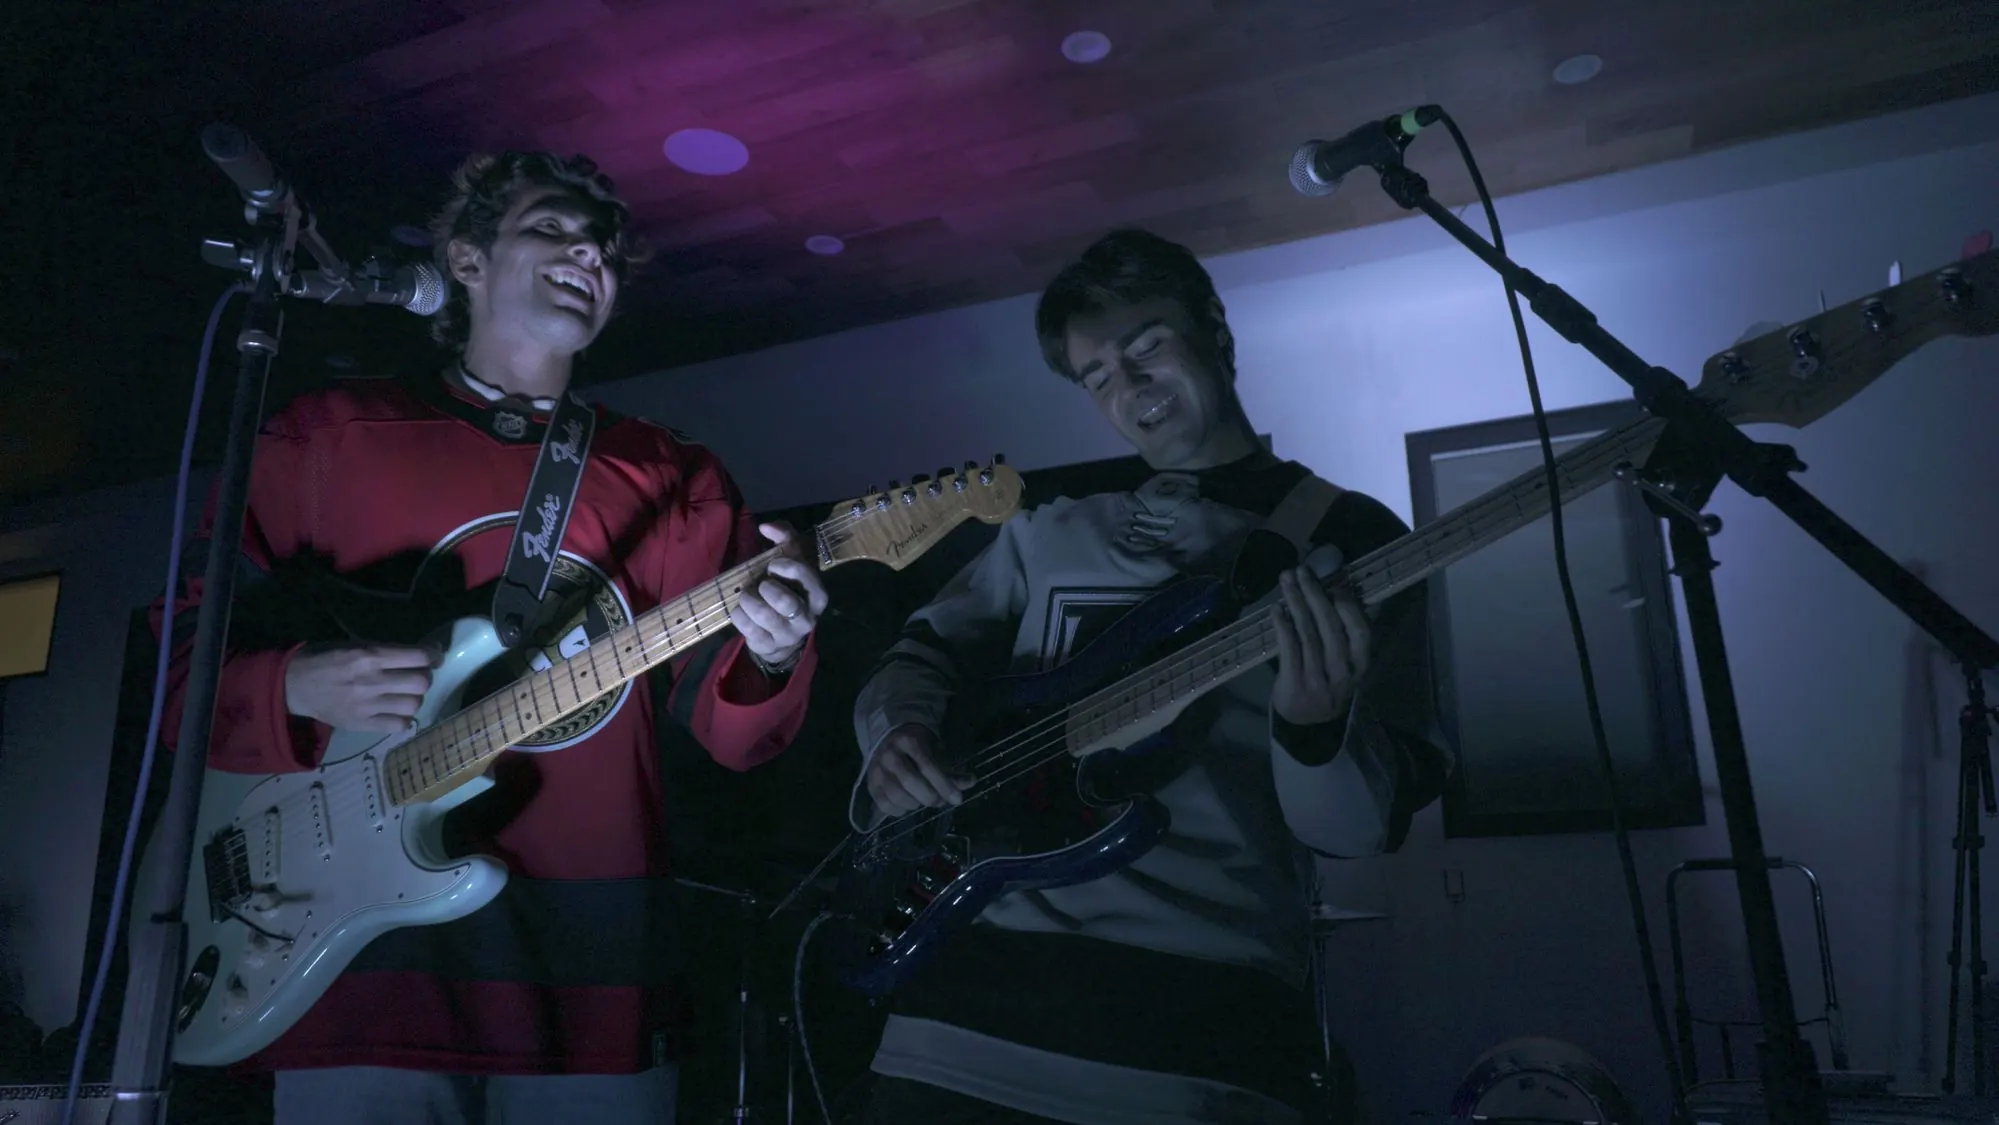
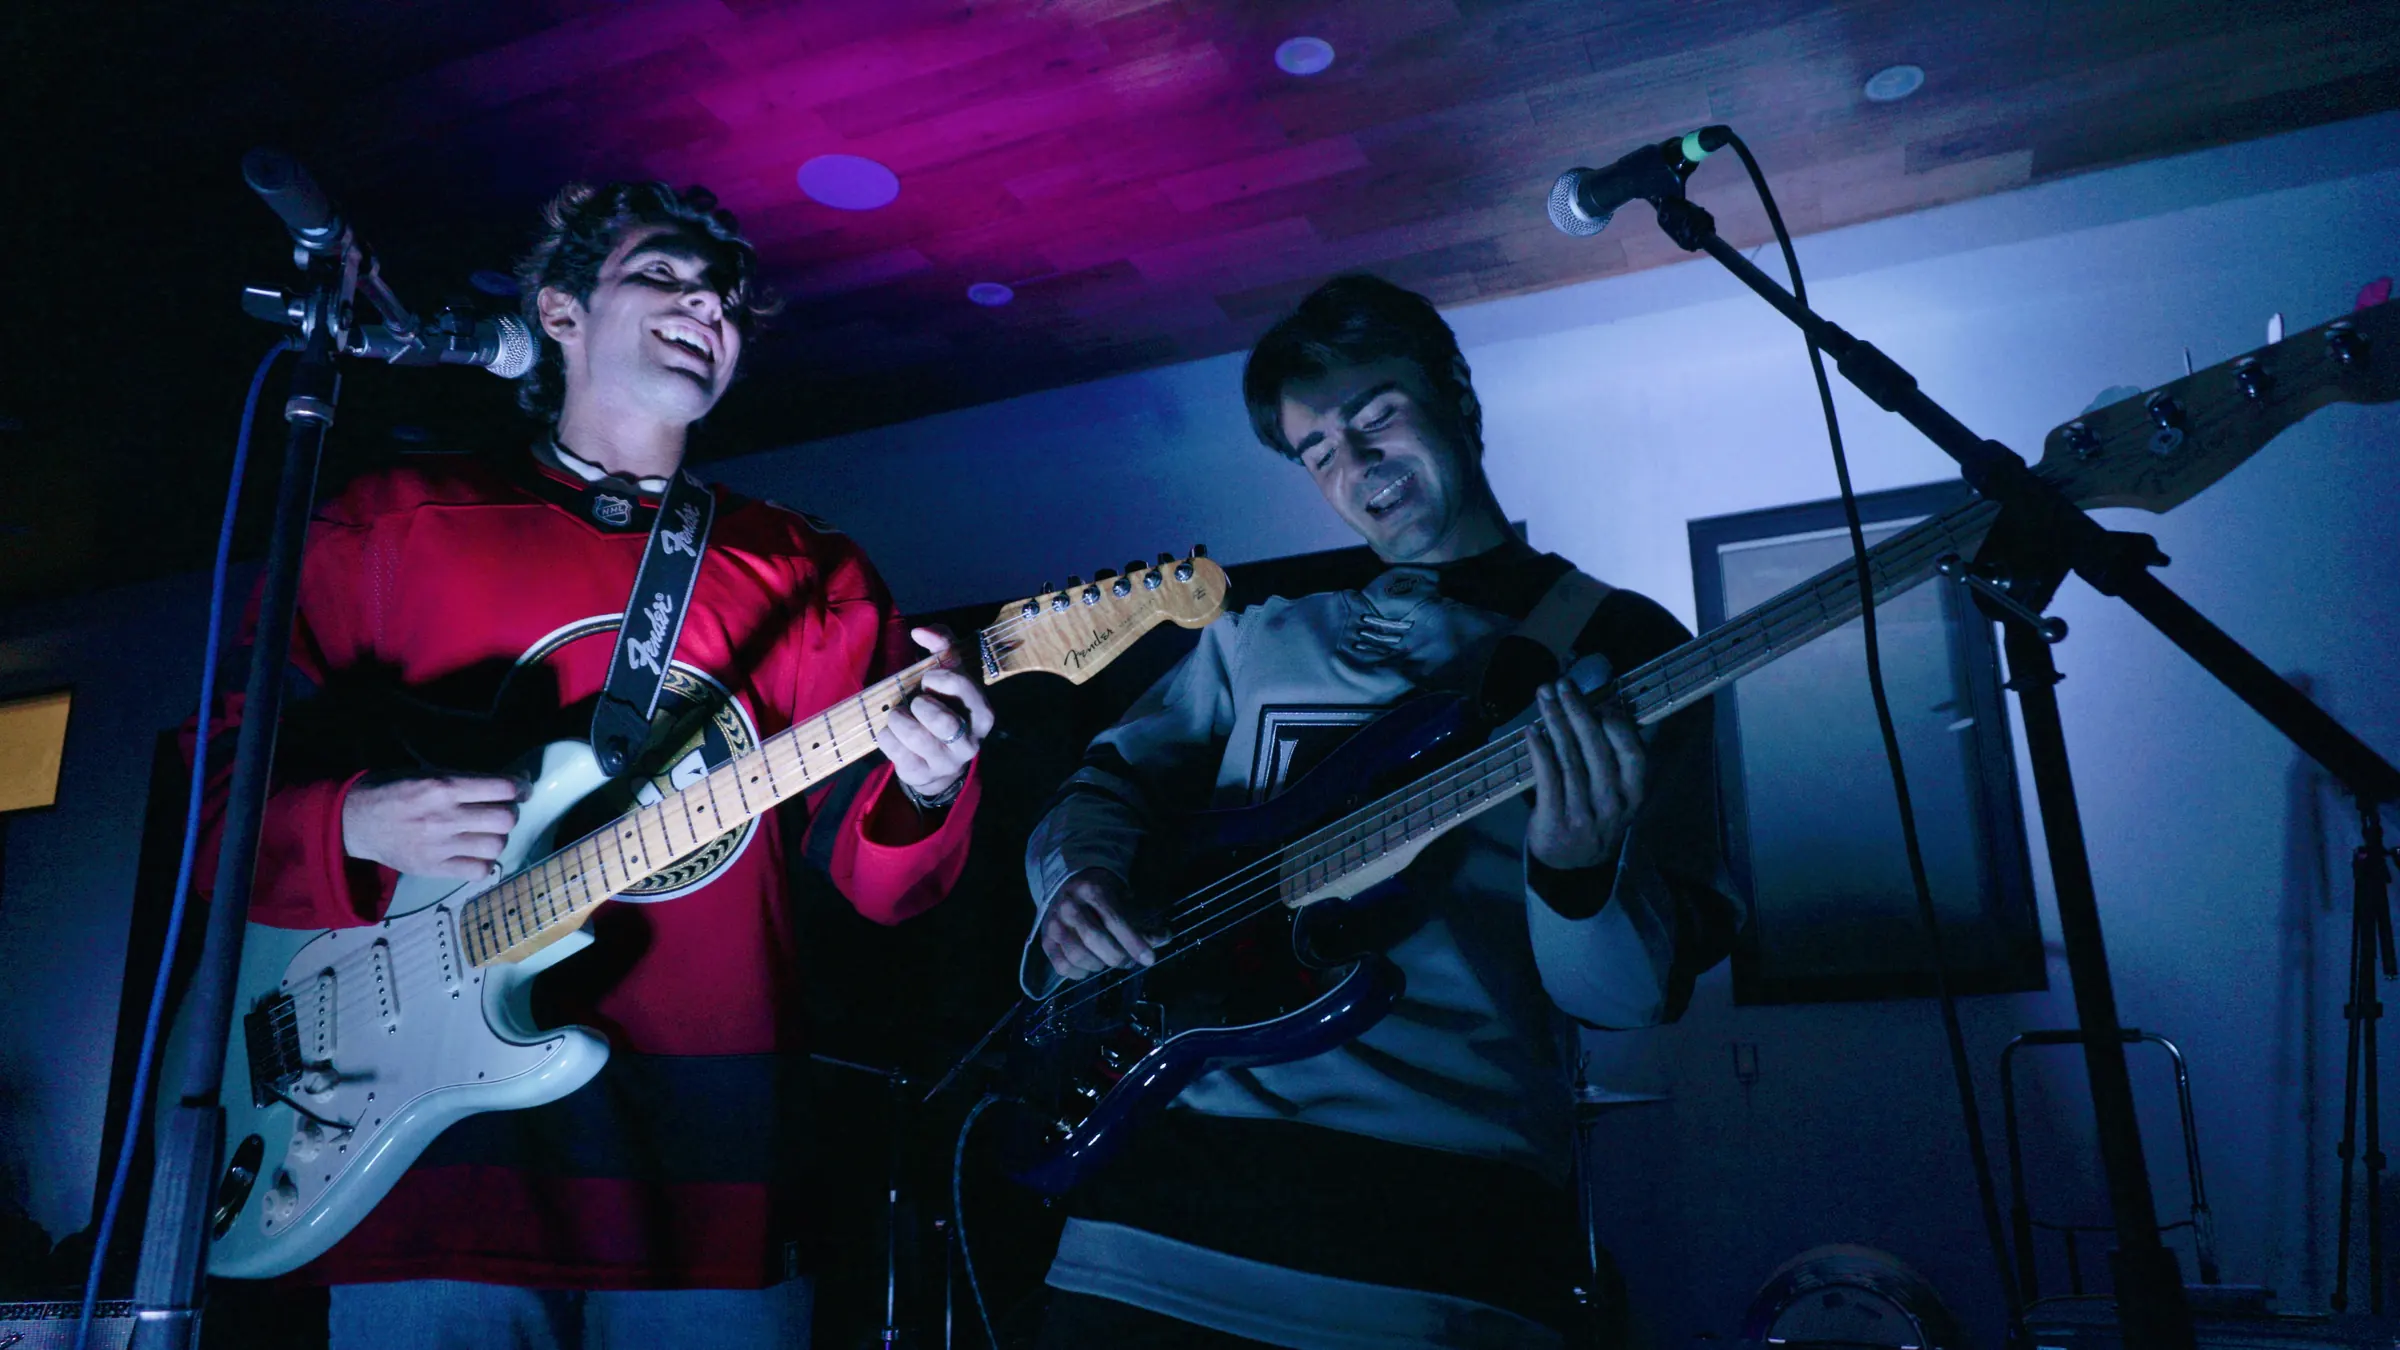
Shows: one swipeable carousel with the rig and the better-color live photos; Outheback Concert links to outheback.com; About carousel swipes too; Dino intro reads Synth wizard
Claude-Session: https://claude.ai/code/session_01SPf6uRinkDrHA57Er9LuwT

diff --git a/src/lib/blur.ts b/src/lib/blur.ts
@@ -1,6 +1,7 @@
 // Generated by scripts/gen_blur.mjs. Do not edit by hand.
 const BLUR: Record<string, string> = {
[5 lines of base64/hex data omitted]
@@ -15,11 +16,10 @@ const BLUR: Record<string, string> = {
[14 lines of base64/hex data omitted]

diff --git a/src/app/shows/page.tsx b/src/app/shows/page.tsx
@@ -1,25 +1,23 @@
 import type { Metadata } from "next";
-import Image from "next/image";
-import type { CSSProperties } from "react";
-import { blur } from "@/lib/blur";
+import PhotoCarousel from "@/components/PhotoCarousel";
 import SignupButton from "@/components/signup/SignupButton";
 import { SHOWS, eventLd, showDate, upcomingShows } from "@/lib/band";
 
 export const metadata: Metadata = {
   title: "Shows",
   description:
-    "Upcoming Stoke Club shows: Outback Concert in Boca Raton, Florida on December 6, 2026. Leave your number and we'll invite you.",
+    "Upcoming Stoke Club shows: Outheback Concert in Boca Raton, Florida on December 6, 2026. Leave your number and we'll invite you.",
   alternates: { canonical: "/shows" },
 };
 
 const REGION: Record<string, string> = { CA: "California", FL: "Florida" };
 
-// Live photos: the portrait holds the left column, the two landscapes stack on the right.
-// 81:100 makes the two columns the same height with almost no crop.
-const LIVE = [
-  { src: "/img/live-bass.webp", alt: "Stoke Club's bassist laughing mid-song under a wood ceiling", w: 1200, h: 1799 },
-  { src: "/img/live-house-party.webp", alt: "Stoke Club playing a house party in blue and red light", w: 2000, h: 1307 },
-  { src: "/img/live-guitar-bass.webp", alt: "Stoke Club's guitarist and bassist singing together on stage", w: 1999, h: 1125 },
+// The instruments, then the band live. Portraits are cropped toward the faces.
+const PHOTOS = [
+  { src: "/img/backyard-rig.webp", alt: "Stoke Club's backyard rig", position: "50% 55%" },
+  { src: "/img/live-house-party.webp", alt: "Stoke Club playing a house party in blue and red light" },
+  { src: "/img/live-guitar-bass.webp", alt: "Stoke Club's guitarist and bassist singing together on stage" },
+  { src: "/img/live-bass.webp", alt: "Stoke Club's bassist laughing mid-song under a wood ceiling", position: "50% 30%" },
 ];
 
 const SHOWS_LD = {
@@ -35,16 +33,12 @@ export default function Shows() {
         Shows
       </h1>
 
-      <div className="relative mb-12 aspect-[4/5] w-full max-w-xs overflow-hidden rounded-2xl border border-white/10 sm:max-w-sm">
-        <Image
-          src="/img/backyard-rig.jpg"
-            {...blur("/img/backyard-rig.jpg")}
-          alt="Stoke Club's backyard rig"
-          fill
-          sizes="(min-width: 640px) 384px, 320px"
-          className="object-cover"
-        />
-      </div>
+      <PhotoCarousel
+        className="mb-12 w-full"
+        aspectClassName="aspect-[3/2]"
+        sizes="(min-width: 896px) 832px, 100vw"
+        photos={PHOTOS}
+      />
 
       {/* Upcoming */}
       <section>
@@ -57,7 +51,13 @@ export default function Shows() {
             className="mt-4 rounded-2xl border border-white/10 bg-white/[0.03] px-6 py-6 sm:px-8 sm:py-8"
           >
             <h2 className="font-[family-name:var(--font-display)] text-xl font-semibold tracking-tight text-white sm:text-2xl">
-              {show.name}
+              {show.url ? (
+                <a href={show.url} target="_blank" rel="noreferrer" className="underline-offset-4 hover:underline">
+                  {show.name}
+                </a>
+              ) : (
+                show.name
+              )}
             </h2>
             <p className="mt-1 text-sm text-white/55">
               {show.city}, {REGION[show.region] ?? show.region} · {showDate(show.date)}
@@ -65,35 +65,6 @@ export default function Shows() {
           </div>
         ))}
         <SignupButton className="mt-6" label="Get invited" />
-      </section>
-
-      <section className="mt-24 sm:mt-32" aria-labelledby="live">
-        <h2
-          id="live"
-          className="mb-6 font-[family-name:var(--font-display)] text-2xl font-semibold tracking-tight text-white sm:text-3xl"
-        >
-          Live
-        </h2>
-        <div className="grid gap-3 sm:grid-cols-[81fr_100fr] sm:grid-rows-[auto_auto]">
-          {LIVE.map((p, i) => (
-            <div
-              key={p.src}
-              className={`relative overflow-hidden rounded-2xl bg-white/[0.04] [aspect-ratio:var(--ar)] ${
-                i === 0 ? "sm:row-span-2 sm:[aspect-ratio:auto]" : ""
-              }`}
-              style={{ "--ar": `${p.w} / ${p.h}` } as CSSProperties}
-            >
-              <Image
-                src={p.src}
-                {...blur(p.src)}
-                alt={p.alt}
-                fill
-                sizes={i === 0 ? "(min-width: 896px) 380px, (min-width: 640px) 44vw, 100vw" : "(min-width: 896px) 470px, (min-width: 640px) 55vw, 100vw"}
-                className="object-cover"
-              />
-            </div>
-          ))}
-        </div>
       </section>
     </main>
   );

diff --git a/src/components/PhotoCarousel.tsx b/src/components/PhotoCarousel.tsx
@@ -7,23 +7,29 @@ import { blur } from "@/lib/blur";
 type Photo = {
   src: string;
   alt: string;
+  position?: string; // object-position when the frame crops the photo, e.g. "50% 30%"
 };
 
 type PhotoCarouselProps = {
   photos: Photo[];
   className?: string;
   aspectClassName?: string;
+  sizes?: string;
 };
 
 // Auto-advances every 3s, crossfading. Pauses off-screen and honors
 // prefers-reduced-motion (shows the first photo, no auto-advance), same
-// restraint as CanvasCard's Spotify loops.
+// restraint as CanvasCard's Spotify loops. A horizontal swipe on a phone steps
+// one photo either way and restarts the 3s clock; vertical scrolling passes through.
 export default function PhotoCarousel({
   photos,
   className = "",
   aspectClassName = "aspect-square",
+  sizes = "(min-width: 640px) 448px, 100vw",
 }: PhotoCarouselProps) {
   const [index, setIndex] = useState(0);
+  const touch = useRef<{ x: number; y: number } | null>(null);
+  const step = (d: number) => setIndex((i) => (i + d + photos.length) % photos.length);
   const [active, setActive] = useState(false);
   const containerRef = useRef<HTMLDivElement>(null);
 
@@ -45,12 +51,25 @@ export default function PhotoCarousel({
       setIndex((i) => (i + 1) % photos.length);
     }, 3000);
     return () => clearInterval(id);
-  }, [active, photos.length]);
+  }, [active, photos.length, index]);
 
   return (
     <div
       ref={containerRef}
-      className={`relative ${aspectClassName} overflow-hidden rounded-2xl border border-white/10 ${className}`}
+      className={`relative ${aspectClassName} touch-pan-y select-none overflow-hidden rounded-2xl border border-white/10 ${className}`}
+      onTouchStart={(e) => {
+        const t = e.touches[0];
+        touch.current = { x: t.clientX, y: t.clientY };
+      }}
+      onTouchEnd={(e) => {
+        const start = touch.current;
+        touch.current = null;
+        if (!start || photos.length < 2) return;
+        const t = e.changedTouches[0];
+        const dx = t.clientX - start.x;
+        if (Math.abs(dx) < 40 || Math.abs(dx) < Math.abs(t.clientY - start.y)) return;
+        step(dx < 0 ? 1 : -1);
+      }}
     >
       {photos.map((photo, i) => (
         <Image
@@ -59,7 +78,9 @@ export default function PhotoCarousel({
           alt={photo.alt}
           {...blur(photo.src)}
           fill
-          sizes="(min-width: 640px) 448px, 100vw"
+          sizes={sizes}
+          draggable={false}
+          style={photo.position ? { objectPosition: photo.position } : undefined}
           className={`object-cover transition-opacity duration-700 ease-out ${
             i === index ? "opacity-100" : "opacity-0"
           }`}

diff --git a/src/lib/band.ts b/src/lib/band.ts
@@ -33,9 +33,9 @@ export const COLLEGE = "University of Southern California";
 // The shows the public site lists. Only a booked show with a stated city and date goes here;
 // it mirrors knowledge/calendar.md, which is the one home for dates. A venue or address that
 // nobody stated stays absent.
-export type Show = { slug: string; name: string; date: string; city: string; region: string; time?: string };
+export type Show = { slug: string; name: string; date: string; city: string; region: string; time?: string; url?: string };
 export const SHOWS: Show[] = [
-  { slug: "boca-raton-2026-12-06", name: "Outback Concert", date: "2026-12-06", city: "Boca Raton", region: "FL" },
+  { slug: "boca-raton-2026-12-06", name: "Outheback Concert", date: "2026-12-06", city: "Boca Raton", region: "FL", url: "https://outheback.com" },
 ];
 export const showDate = (iso: string) =>
   new Date(`${iso}T12:00:00Z`).toLocaleDateString("en-US", {
@@ -153,7 +153,7 @@ export const DINO: FeaturedArtist = {
   photoAlt: "Dino, lit in blue",
   wordmark: "/img/dino-wordmark.svg",
   wordmarkRatio: 1136 / 1092,
-  intro: "Originals from our synth wizard",
+  intro: "Synth wizard",
   spotifyArtistId: "4KVu07UQyxS32BDU4QzJe4",
   instagram: null,
 };

diff --git a/src/app/about/page.tsx b/src/app/about/page.tsx
@@ -32,6 +32,7 @@ export default function About() {
       <PhotoCarousel
         className="w-full"
         aspectClassName="aspect-[3/2]"
+        sizes="(min-width: 896px) 832px, 100vw"
         photos={[
           { src: "/img/band-2400.jpg", alt: "Stoke Club, the five of us" },
           { src: "/img/studio-session.jpg", alt: "Stoke Club in the studio" },
